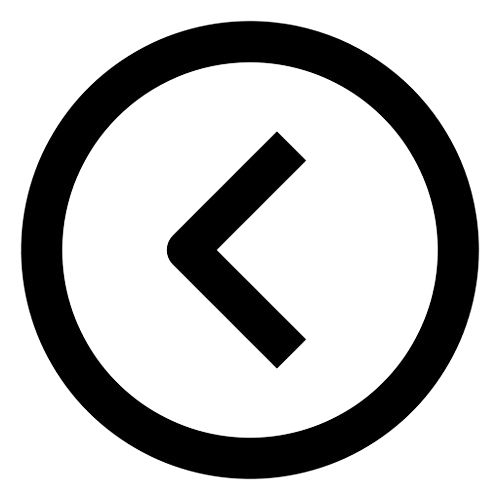
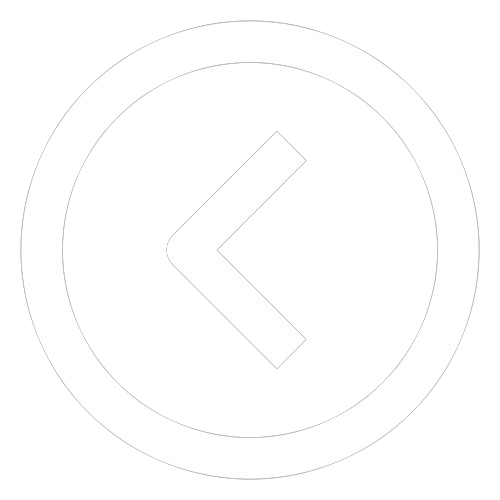
Minor changes
Fix so motor doesn't cause crash in demo mode.
Make the web app back button white

Changed region(s): [[0.03, 0.03, 0.96, 0.96], [0.33, 0.27, 0.63, 0.75]]

diff --git a/server/scanbot.py b/server/scanbot.py
@@ -949,7 +949,7 @@ class scanbot():
 ###############################################################################
 # Tip Actions
 ###############################################################################
-    def moveArea(self,up,upV,upF,direction,steps,dirV,dirF,zon,approach=True,message=""):
+    def moveArea(self,up,upV,upF,direction,steps,dirV,dirF,zon,approach=True,demo=False,message=""):
         """
         This function blindly moves the tip. The tip can never be moved down.
         The tip is first moved in Z+ before moving in any other direction.
@@ -1059,7 +1059,8 @@ class scanbot():
         time.sleep(0.25)
         
         motor.FreqAmpSet(upF,upV)                                               # Set the motor controller params appropriate for Z piezos
-        motor.StartMove("Z+",up,wait_until_finished=True)                       # Retract the tip +Z direction
+        if(not demo):
+            motor.StartMove("Z+",up,wait_until_finished=True)                       # Retract the tip +Z direction
         print("Moving motor: Z+" + " " + str(up) + "steps")
         time.sleep(0.5)
         
@@ -1070,7 +1071,8 @@ class scanbot():
         isSafe = True
         motor.FreqAmpSet(dirF,dirV)                                             # Set the motor controller params appropriate for XY piezos
         for s in range(steps):
-            motor.StartMove(direction,stepsAtATime,wait_until_finished=True)    # Move safe number of steps at a time
+            if(not demo):
+                motor.StartMove(direction,stepsAtATime,wait_until_finished=True)    # Move safe number of steps at a time
             print("Moving motor: " + direction + " " + str(stepsAtATime) + "steps")
             isSafe = self.safeCurrentCheck(NTCP,message=message)                # Safe retract if current overload
             if(not isSafe):
@@ -1083,7 +1085,8 @@ class scanbot():
                 
             time.sleep(0.25)
         
-        motor.StartMove(direction,leftOver,wait_until_finished=True)
+        if(not demo):
+            motor.StartMove(direction,leftOver,wait_until_finished=True)
         print("Moving motor: " + direction + " " + str(leftOver) + "steps")
         time.sleep(0.5)
         
@@ -1536,7 +1539,7 @@ class scanbot():
         
         if(not approach == 1): return
         
-        self.moveArea(up=10, upV=zV, upF=zF, direction="X+", steps=0, dirV=xV, dirF=xF, zon=True) # Approach
+        self.moveArea(up=10, upV=zV, upF=zF, direction="X+", steps=0, dirV=xV, dirF=xF, zon=True, demo=self.autoInitDemo) # Approach
         
         message = ""
         if(target == "clean" and tipshape == 1):
@@ -1554,7 +1557,7 @@ class scanbot():
         
         if(not targetHit == "Target Hit"): return
         
-        self.moveArea(up=10, upV=zV, upF=zF, direction="X+", steps=0, dirV=xV, dirF=xF, zon=True) # Approach
+        self.moveArea(up=10, upV=zV, upF=zF, direction="X+", steps=0, dirV=xV, dirF=xF, zon=True, demo=self.autoInitDemo) # Approach
         
         global_.running.clear()                                                 # Free up the running flag
         
